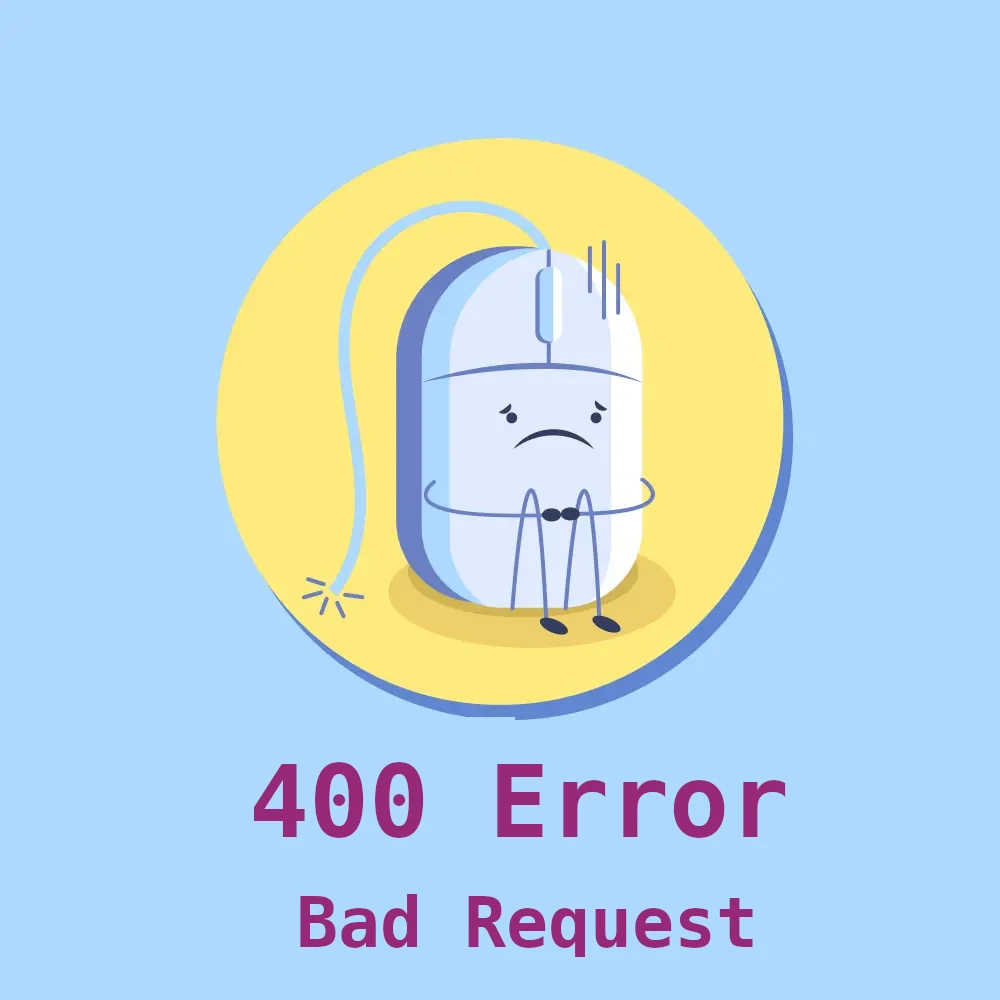
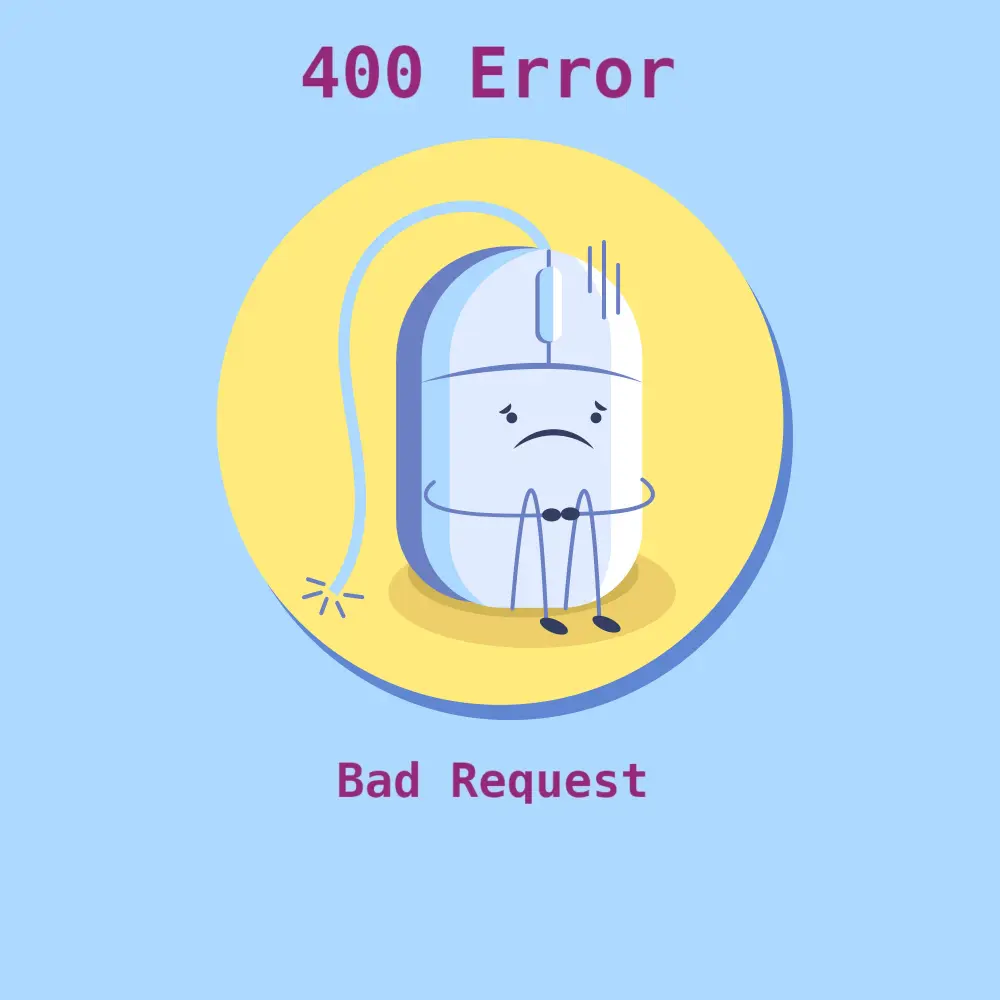
Finish adding/styling custom error pages

diff --git a/templates/errors/500.html b/templates/errors/500.html
@@ -1,13 +1,14 @@
 {% extends 'errors/base.html' %}
 {% block content %}
 {% load static %}
-<div class="page-500"></div>
-
-<div class="forbidden-font text-center">
-    <p class="internal-error">Internal Server Error</p>
-    <p>The server has experienced an issue and could not complete your request. Return to <a href="{% url 'home' %}">
-        <button class="btn btn-success home-link">Home Page</button></a></p>
+<div class="color-back page-500">
+    <div class="footer-font text-center error-txt">
+        <p class="internal-error">Internal Server Error</p>
+        <p>The server has experienced an issue and could not complete your request. Return to <a href="{% url 'home' %}">
+            <button class="btn btn-success btn-error home-link">Home Page</button></a></p>
+    </div>
 </div>
+
 {% endblock content %}
 
 

diff --git a/static/css/base.css b/static/css/base.css
@@ -323,12 +323,19 @@ input[name='q']::placeholder {
     text-align: center;
 }
 
-.page-400, .page-403, .page-404, .page500 {
-    background-image: url(../images/400.webp);
+.page-400, .page-403, .page-404, .page-500 {
     background-size: contain;
     background-position: center;
     background-repeat: no-repeat;
     height: 80vh; 
+}
+
+.page-400 {
+    background-image: url(../images/400.jpg);
+}
+
+.margin-400 {
+    margin-bottom: 100px;
 }
 
 .page-403 {
@@ -341,6 +348,11 @@ input[name='q']::placeholder {
 
 .page-500 {
     background-image: url(../images/500.webp);
+}
+
+.btn-error {
+    padding: 0px 4px 0 4px;
+    border-width: 0 0 3px 0;
 }
 
 /* -------------------------------- Media Queries */

diff --git a/templates/errors/400.html b/templates/errors/400.html
@@ -2,9 +2,9 @@
 {% block content %}
 {% load static %}
 <div class="color-back page-400">
-    <div class="footer-font text-center error-txt">
-        <p class="mt-5">Sorry we can't process this request. Return to <a href="{% url 'home' %}">
-            <button class="btn btn-success home-link">Home Page</button></a></p>
+    <div class="footer-font text-center error-txt margin-400">
+        <p>Sorry we can't process this request. Return to <a href="{% url 'home' %}">
+            <button class="btn btn-success btn-error home-link">Home Page</button></a></p>
     </div>
 </div>
 {% endblock content %}

diff --git a/templates/errors/404.html b/templates/errors/404.html
@@ -3,8 +3,8 @@
 {% load static %}
 <div class="color-back page-404">
     <div class="footer-font text-center error-txt">
-        <p>Sorry, page not found. Return to <a class="ml-2" href="{% url 'home' %}">
-            <button class="btn btn-success home-link">Home Page</button></a></p>
+        <p>Sorry, page not found. Return to <a href="{% url 'home' %}">
+            <button class="btn btn-success home-link btn-error">Home Page</button></a></p>
     </div>
 </div>
 {% endblock content %}

diff --git a/templates/errors/403.html b/templates/errors/403.html
@@ -4,7 +4,7 @@
 <div class="page-403"></div>
 <div class="forbidden-font text-center">
     <p class="mt-5">Access Forbidden, you are not authorized to perform this action. Return to <a href="{% url 'home' %}">
-        <button class="btn btn-success home-link">Home Page</button></a></p>
+        <button class="btn btn-success btn-error home-link">Home Page</button></a></p>
 </div>
 {% endblock content %}
 

diff --git a/products/views.py b/products/views.py
@@ -4,6 +4,7 @@ from django.db.models import Q
 from django.db.models.functions import Lower
 from django.shortcuts import get_object_or_404, redirect, render, reverse
 from django.core.exceptions import SuspiciousOperation
+from django.core.exceptions import PermissionDenied
 
 from .forms import AddToWishlistForm, ProductForm
 from .models import Category, Product, Wishlist
@@ -75,7 +76,6 @@ def product_detail(request, product_id):
     }
 
     return render(request, "products/product_detail.html", context)
-    #raise SuspiciousOperation("Title and ingredients are required.")
 
 
 @login_required
